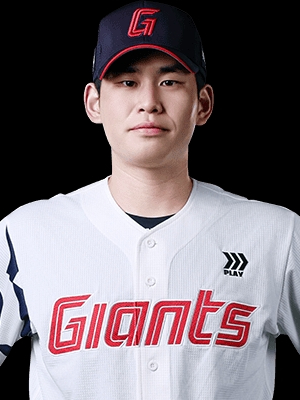
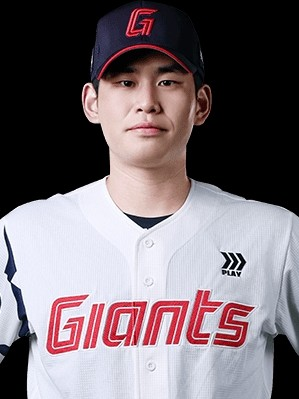
선수 사진 확장자를 실제 형식에 맞춤
- 김진욱 사진을 JPEG 파일로 교체
- 장유호·이도윤·문동주 사진은 실제 형식이 PNG라 확장자를 .png로 변경
- statsService.js의 사진 경로를 바뀐 파일 이름에 맞춤

diff --git a/statsService.js b/statsService.js
@@ -6,9 +6,9 @@
   // team은 teams.js의 id와 같은 값을 씁니다. 배열 순서가 WAR 순위입니다.
   // photoUrl(선택)은 WAR 1~3위만 연결했습니다. 파일이 없거나 불러오지 못하면 화면에서 기본 실루엣으로 대신 표시합니다.
   const pitchers=[
-    P('장유호','hanwha',2.12,6.40,15,4,0,0,28,'assets/players/jang-yuho.jpg'),
+    P('장유호','hanwha',2.12,6.40,15,4,0,0,28,'assets/players/jang-yuho.png'),
     P('김진욱','lotte',2.48,5.85,14,5,0,0,29,'assets/players/kim-jinuk.jpg'),
-    P('문동주','hanwha',2.71,5.30,13,6,0,0,27,'assets/players/moon-dongju.jpg'),
+    P('문동주','hanwha',2.71,5.30,13,6,0,0,27,'assets/players/moon-dongju.png'),
     P('곽빈','doosan',2.95,4.75,12,7,0,0,28),
     P('올러','kia',3.08,4.30,12,6,0,0,27),
     P('임찬규','lg',3.21,3.90,11,7,0,0,27),
@@ -20,7 +20,7 @@
   const batters=[
     B('전민재','lotte',.331,6.90,172,12,71,88,14,'assets/players/jeon-minjae.jpg'),
     B('장두성','lotte',.318,6.25,165,5,48,97,38,'assets/players/jang-duseong.jpg'),
-    B('이도윤','hanwha',.305,5.70,148,7,62,74,11,'assets/players/lee-doyun.jpg'),
+    B('이도윤','hanwha',.305,5.70,148,7,62,74,11,'assets/players/lee-doyun.png'),
     B('오스틴','lg',.312,5.20,163,32,108,91,9),
     B('김도영','kia',.336,4.85,178,34,104,100,36),
     B('구자욱','samsung',.322,4.40,169,26,96,93,10),
